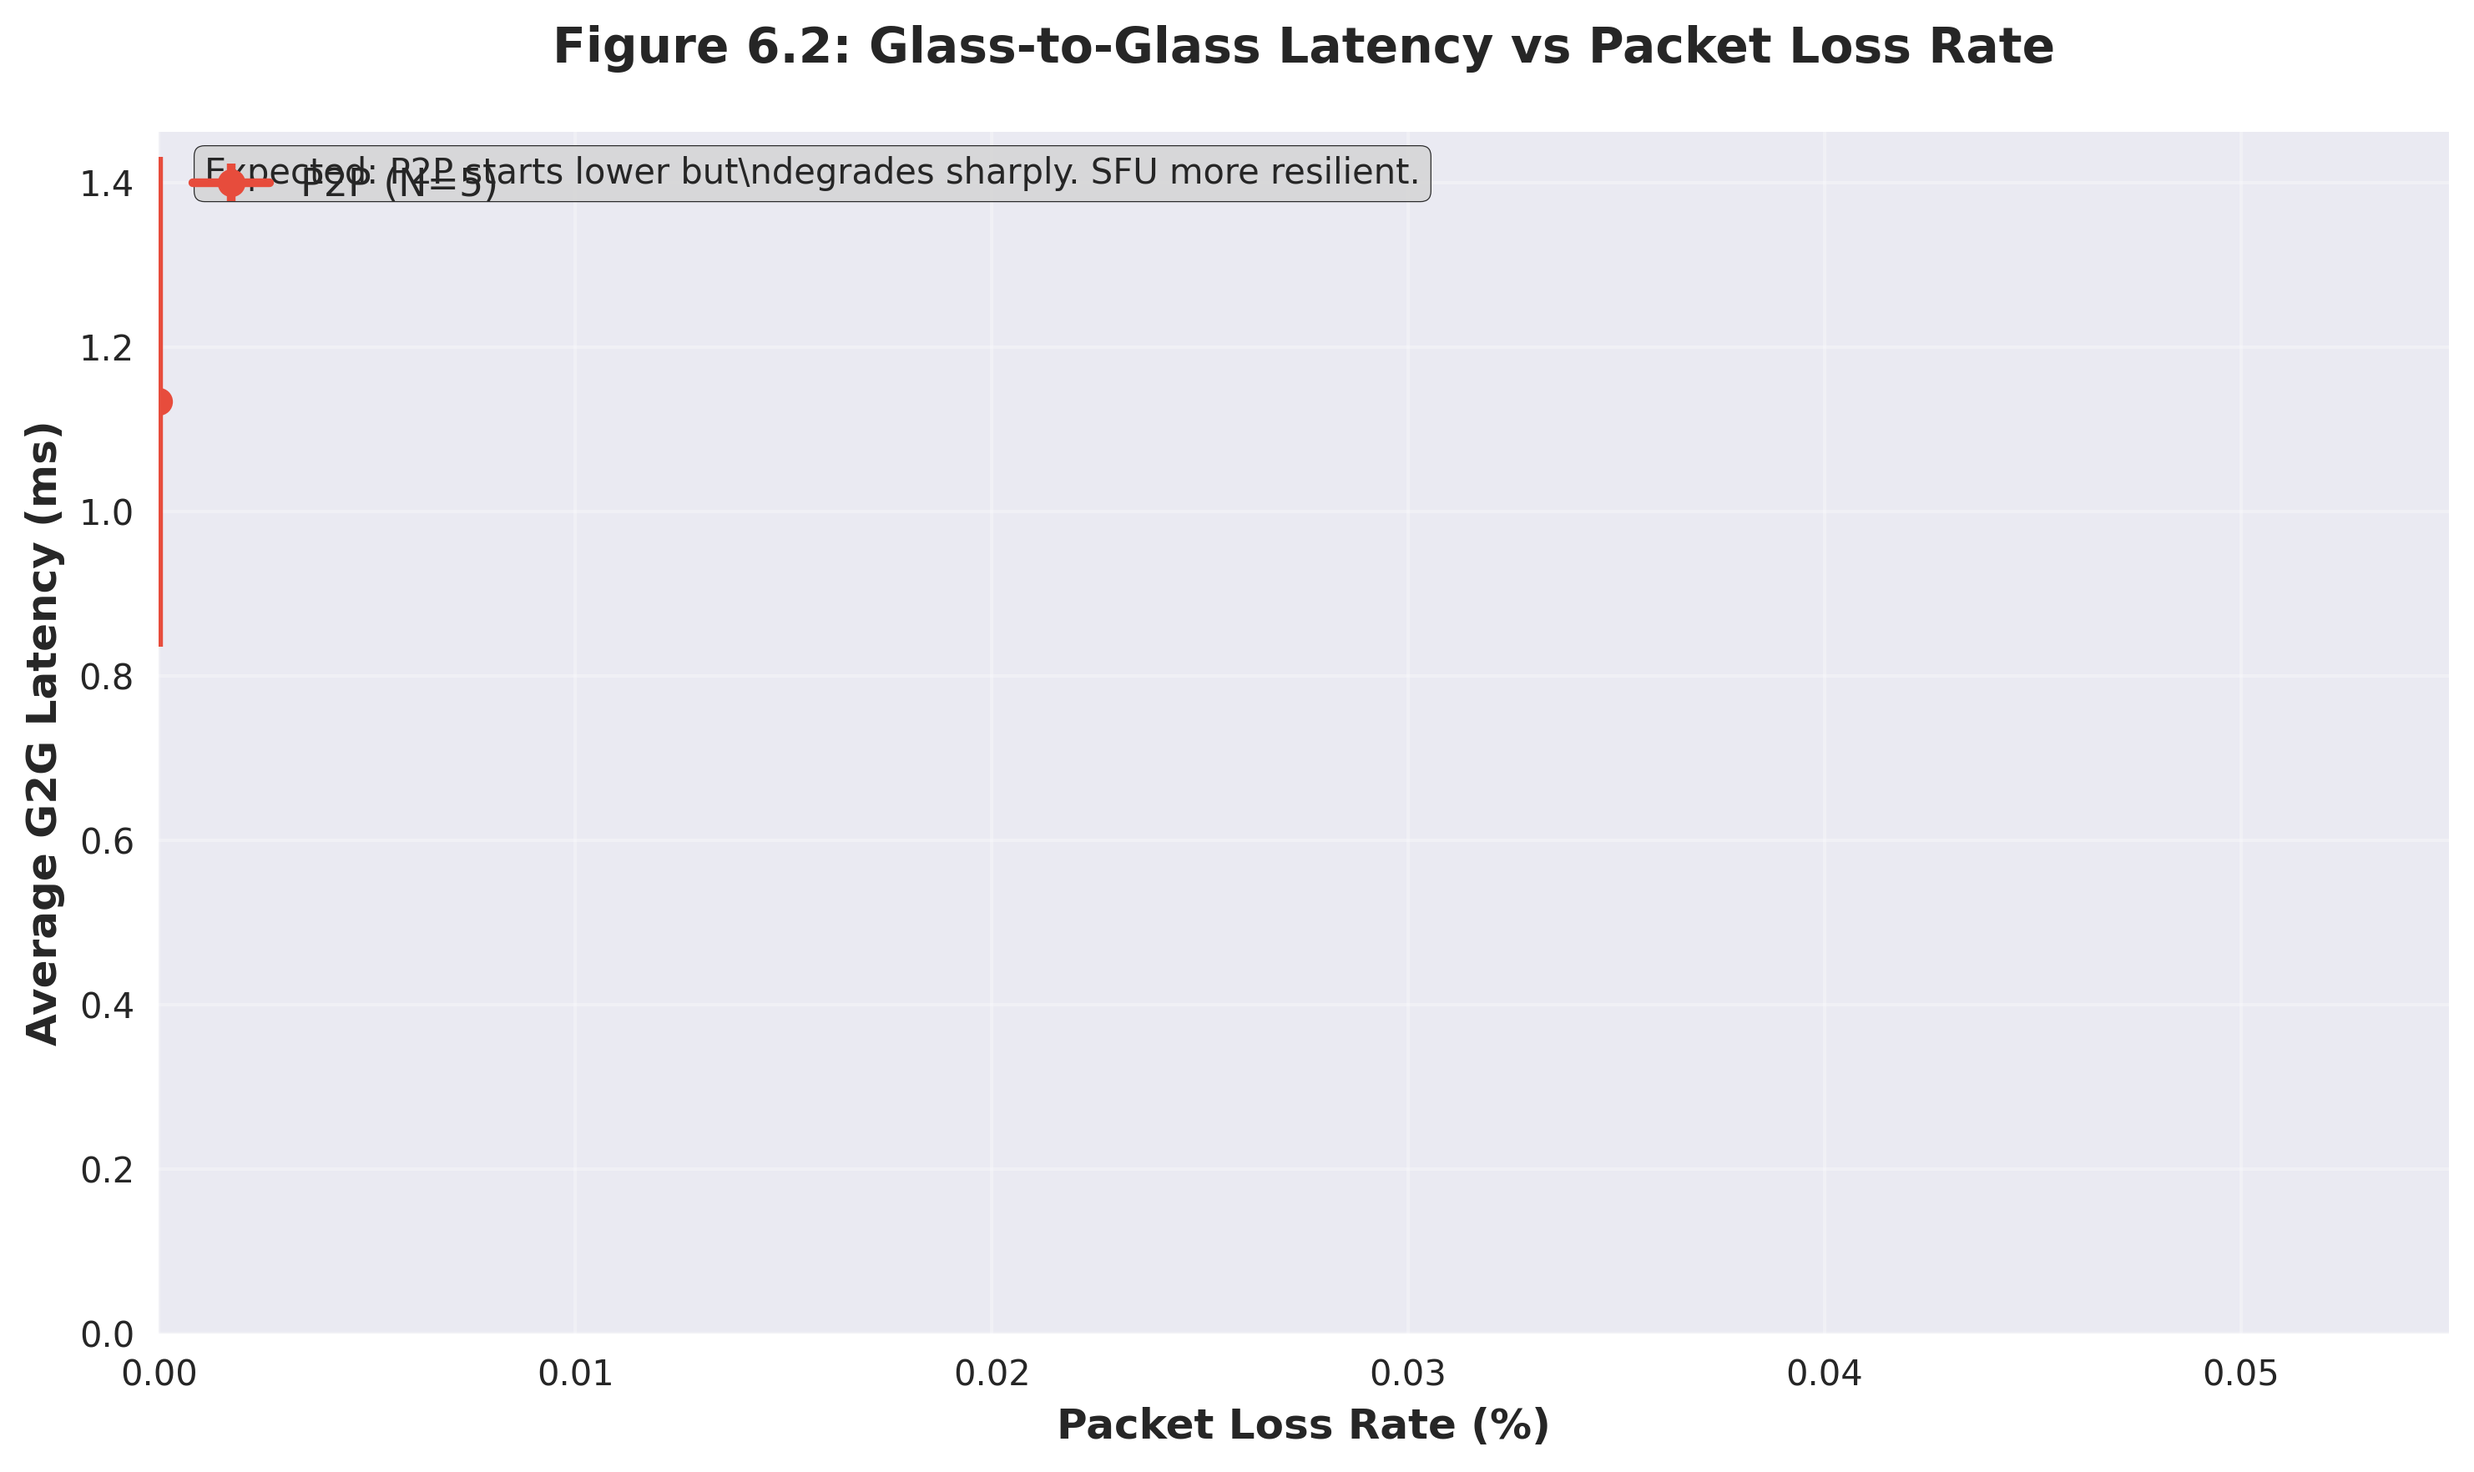
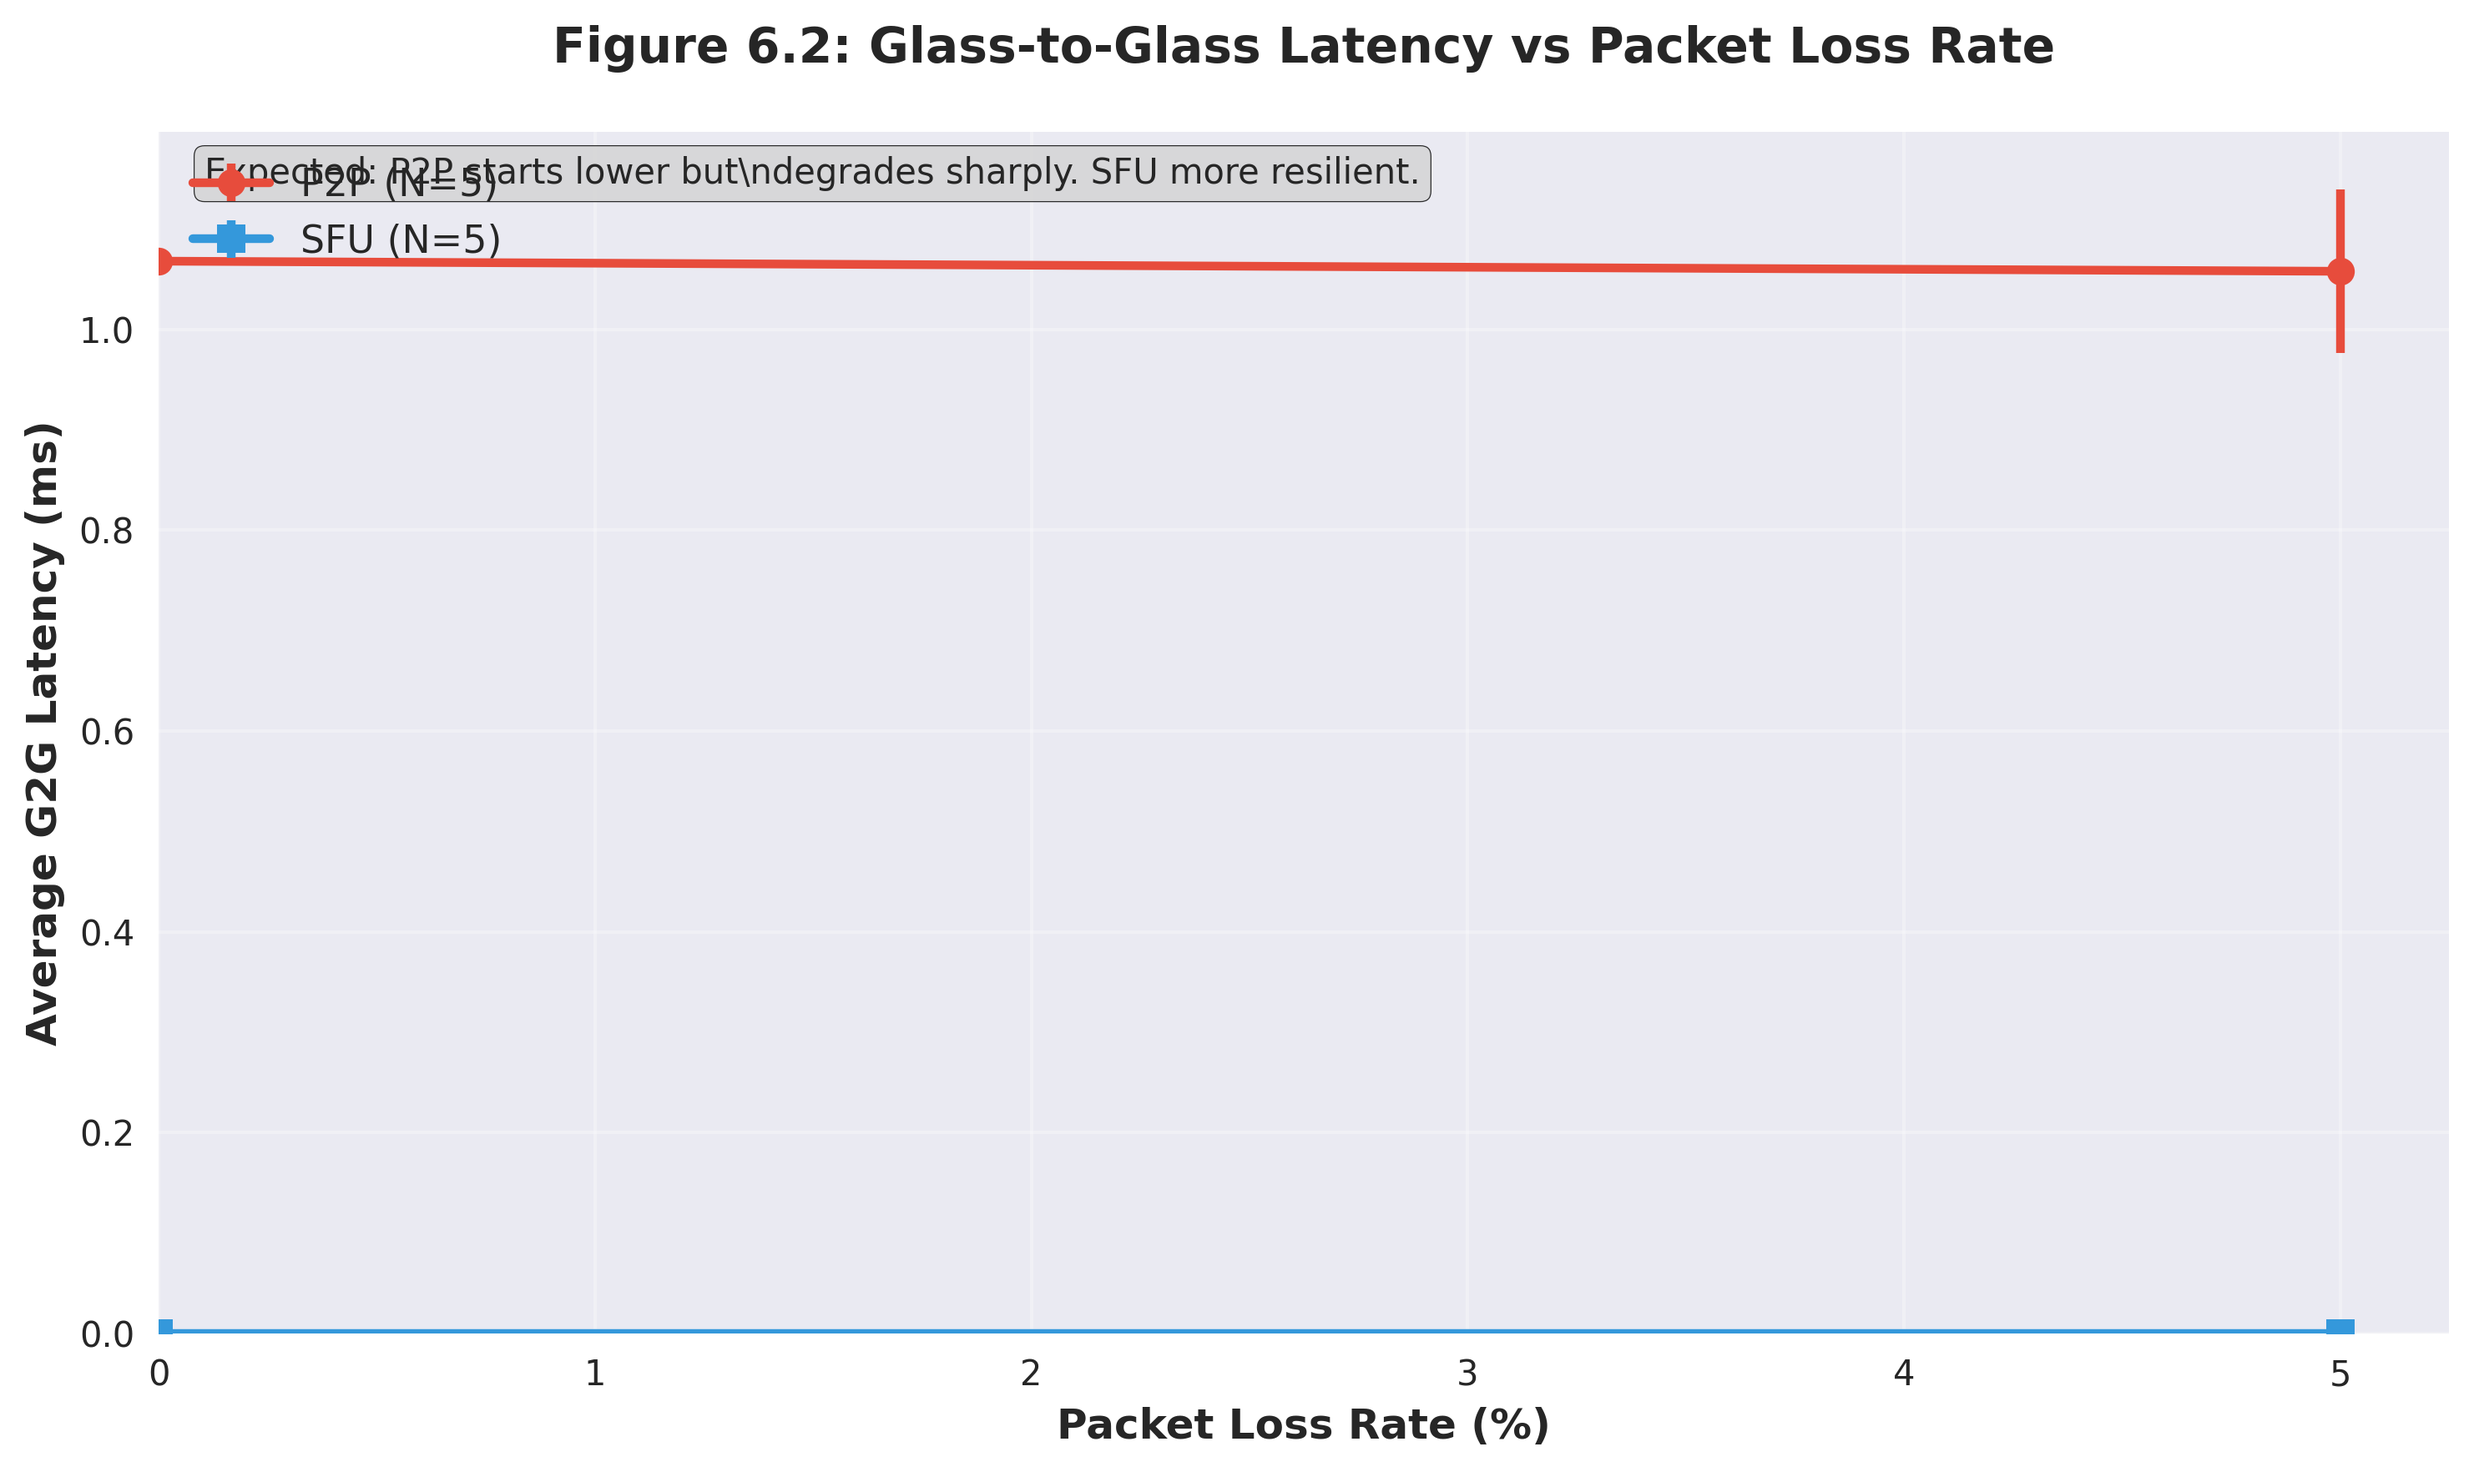
Refactor data analysis to use all available data for latency calculations
- Modified `analyze_results.py` to average latency across all viewer counts instead of filtering for 5 viewers.
- Updated `summary_statistics.csv` to reflect new average CPU usage and latency values.
- Added new results to `results.csv` for various configurations, enhancing the dataset for analysis.
- Updated multiple plot images to reflect the latest data changes.

diff --git a/webrtc_testing_framework/data_analysis/analyze_results.py b/webrtc_testing_framework/data_analysis/analyze_results.py
@@ -261,12 +261,8 @@ class WebRTCAnalyzer:
         
         fig, ax = plt.subplots(figsize=(10, 6))
         
-        # Filter data for 5 viewers only
-        filtered_data = self.df[self.df['Num_Viewers'] == 5]
-        
-        if len(filtered_data) == 0:
-            logger.warning("No data found for 5 viewers. Using all available data.")
-            filtered_data = self.df
+        # Use all data - average latency across all viewer counts for each packet loss rate
+        filtered_data = self.df
         
         # Group by architecture and packet loss rate, calculate mean latency
         grouped_data = filtered_data.groupby(['Architecture', 'Packet_Loss_Rate'])['Avg_Latency_Ms'].agg(['mean', 'std']).reset_index()
